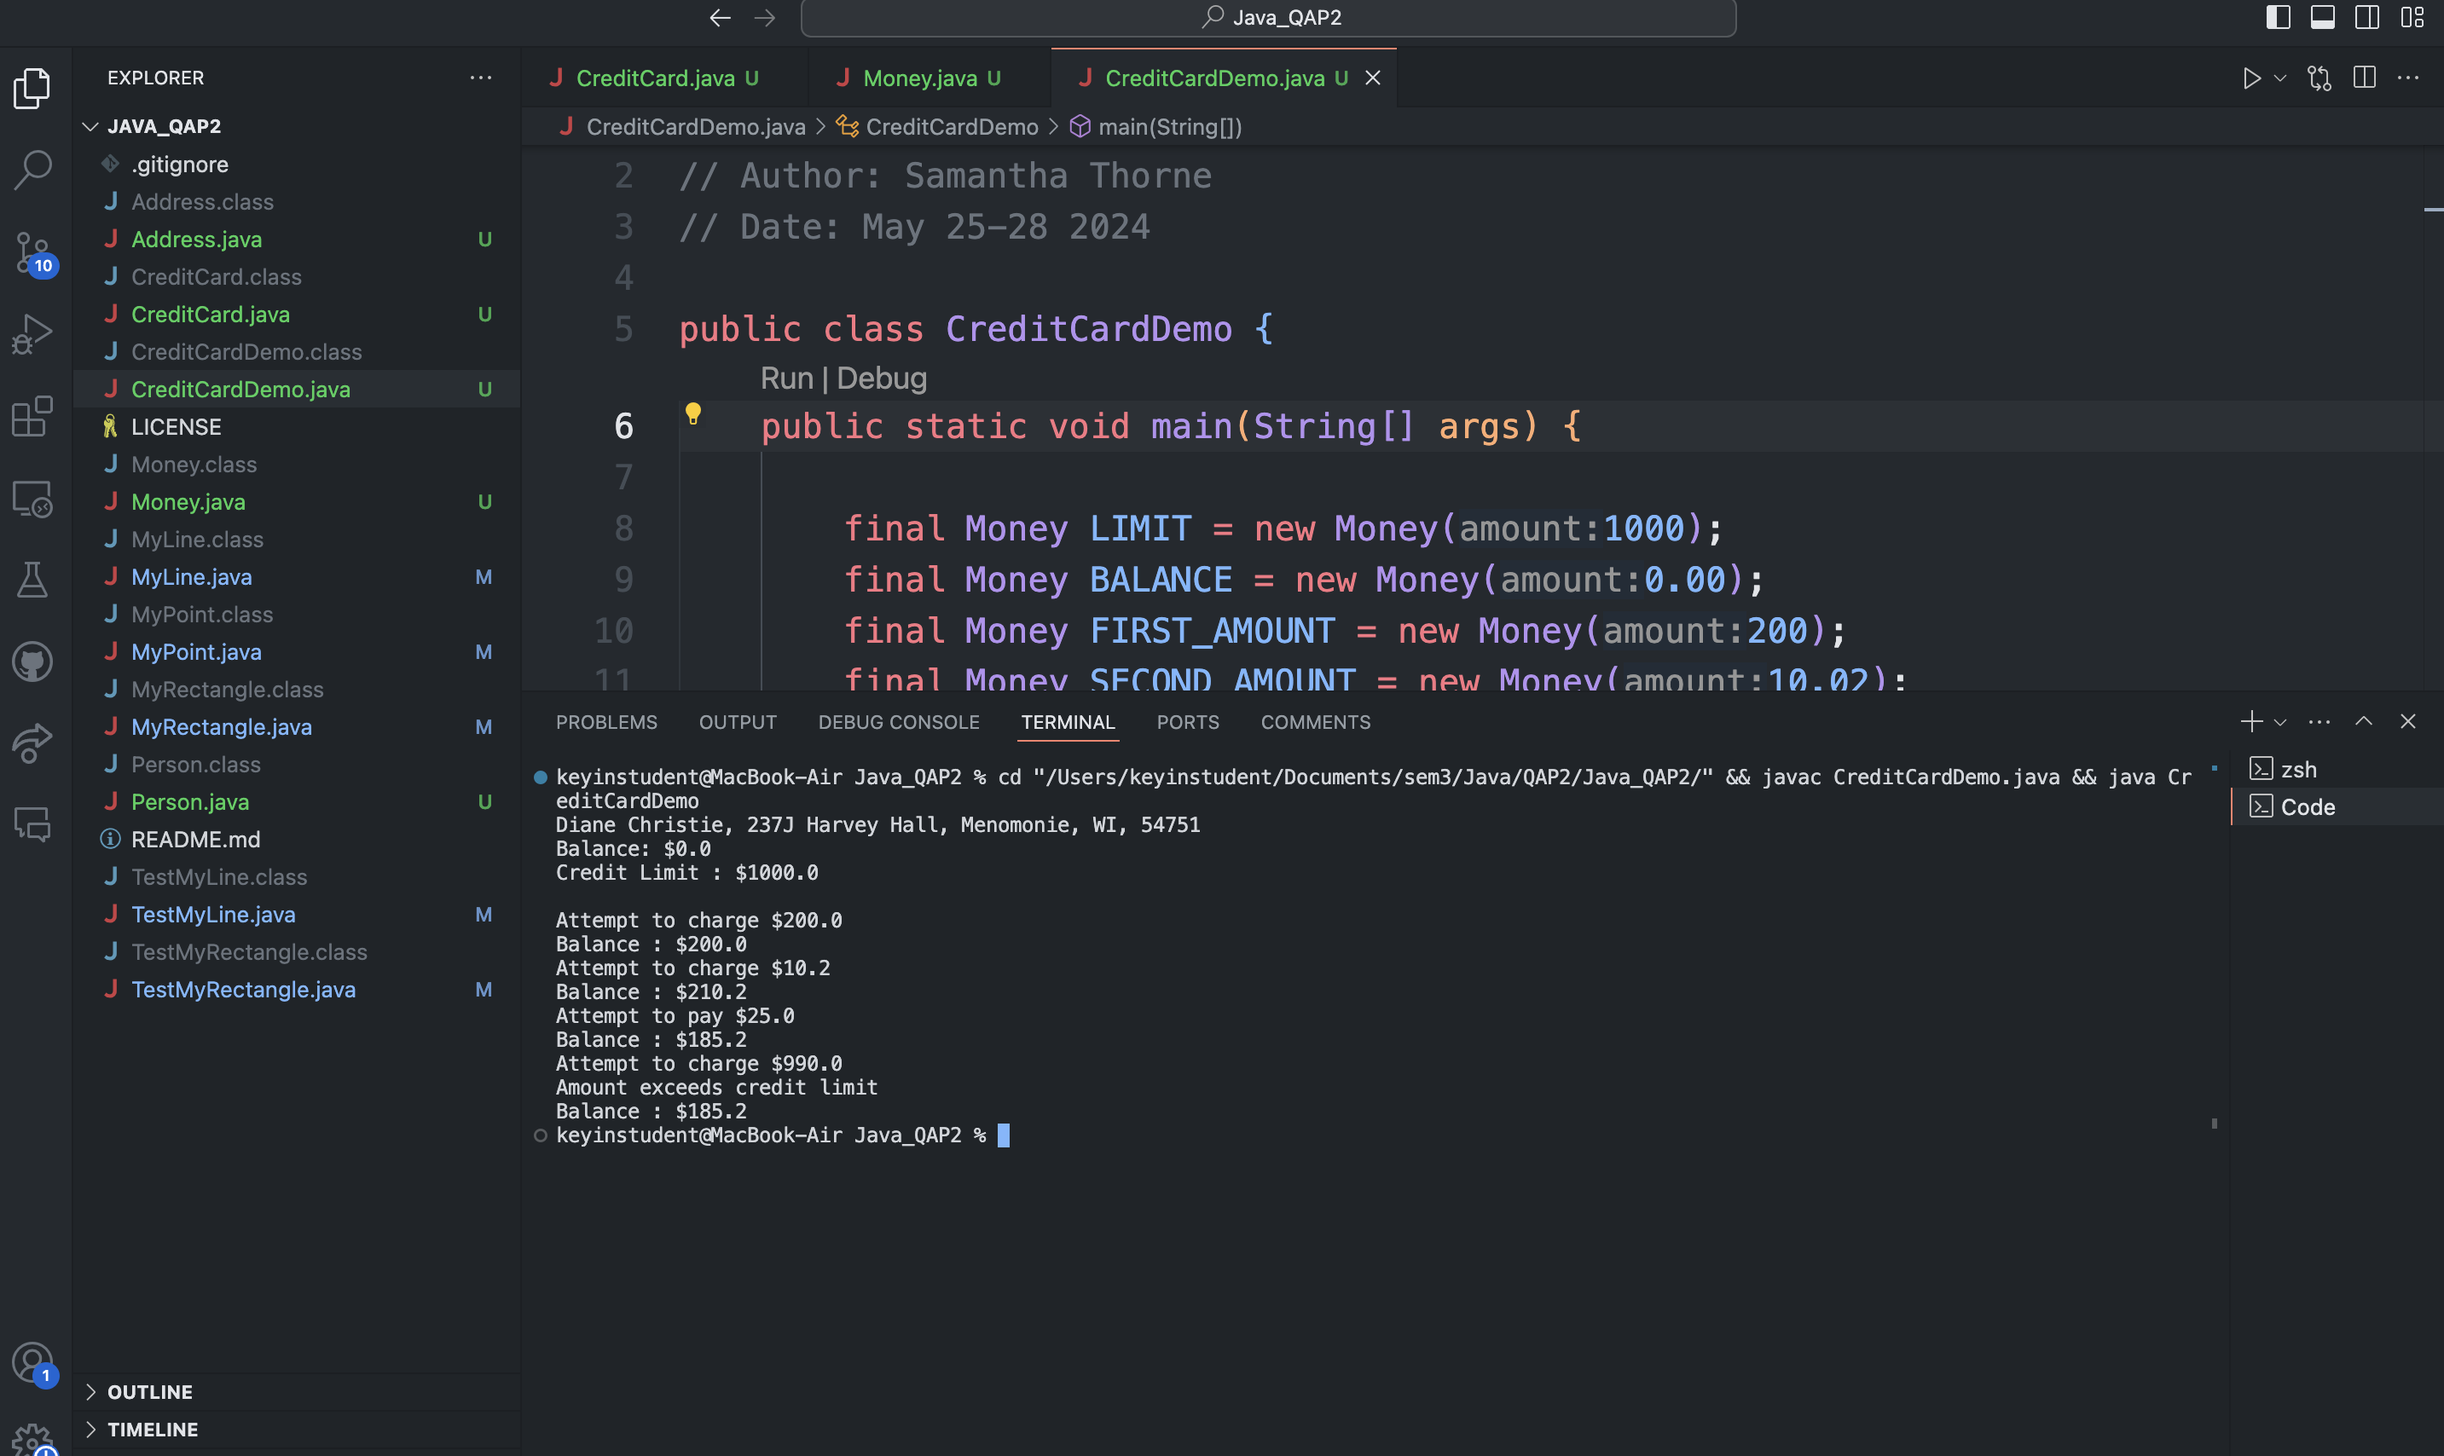
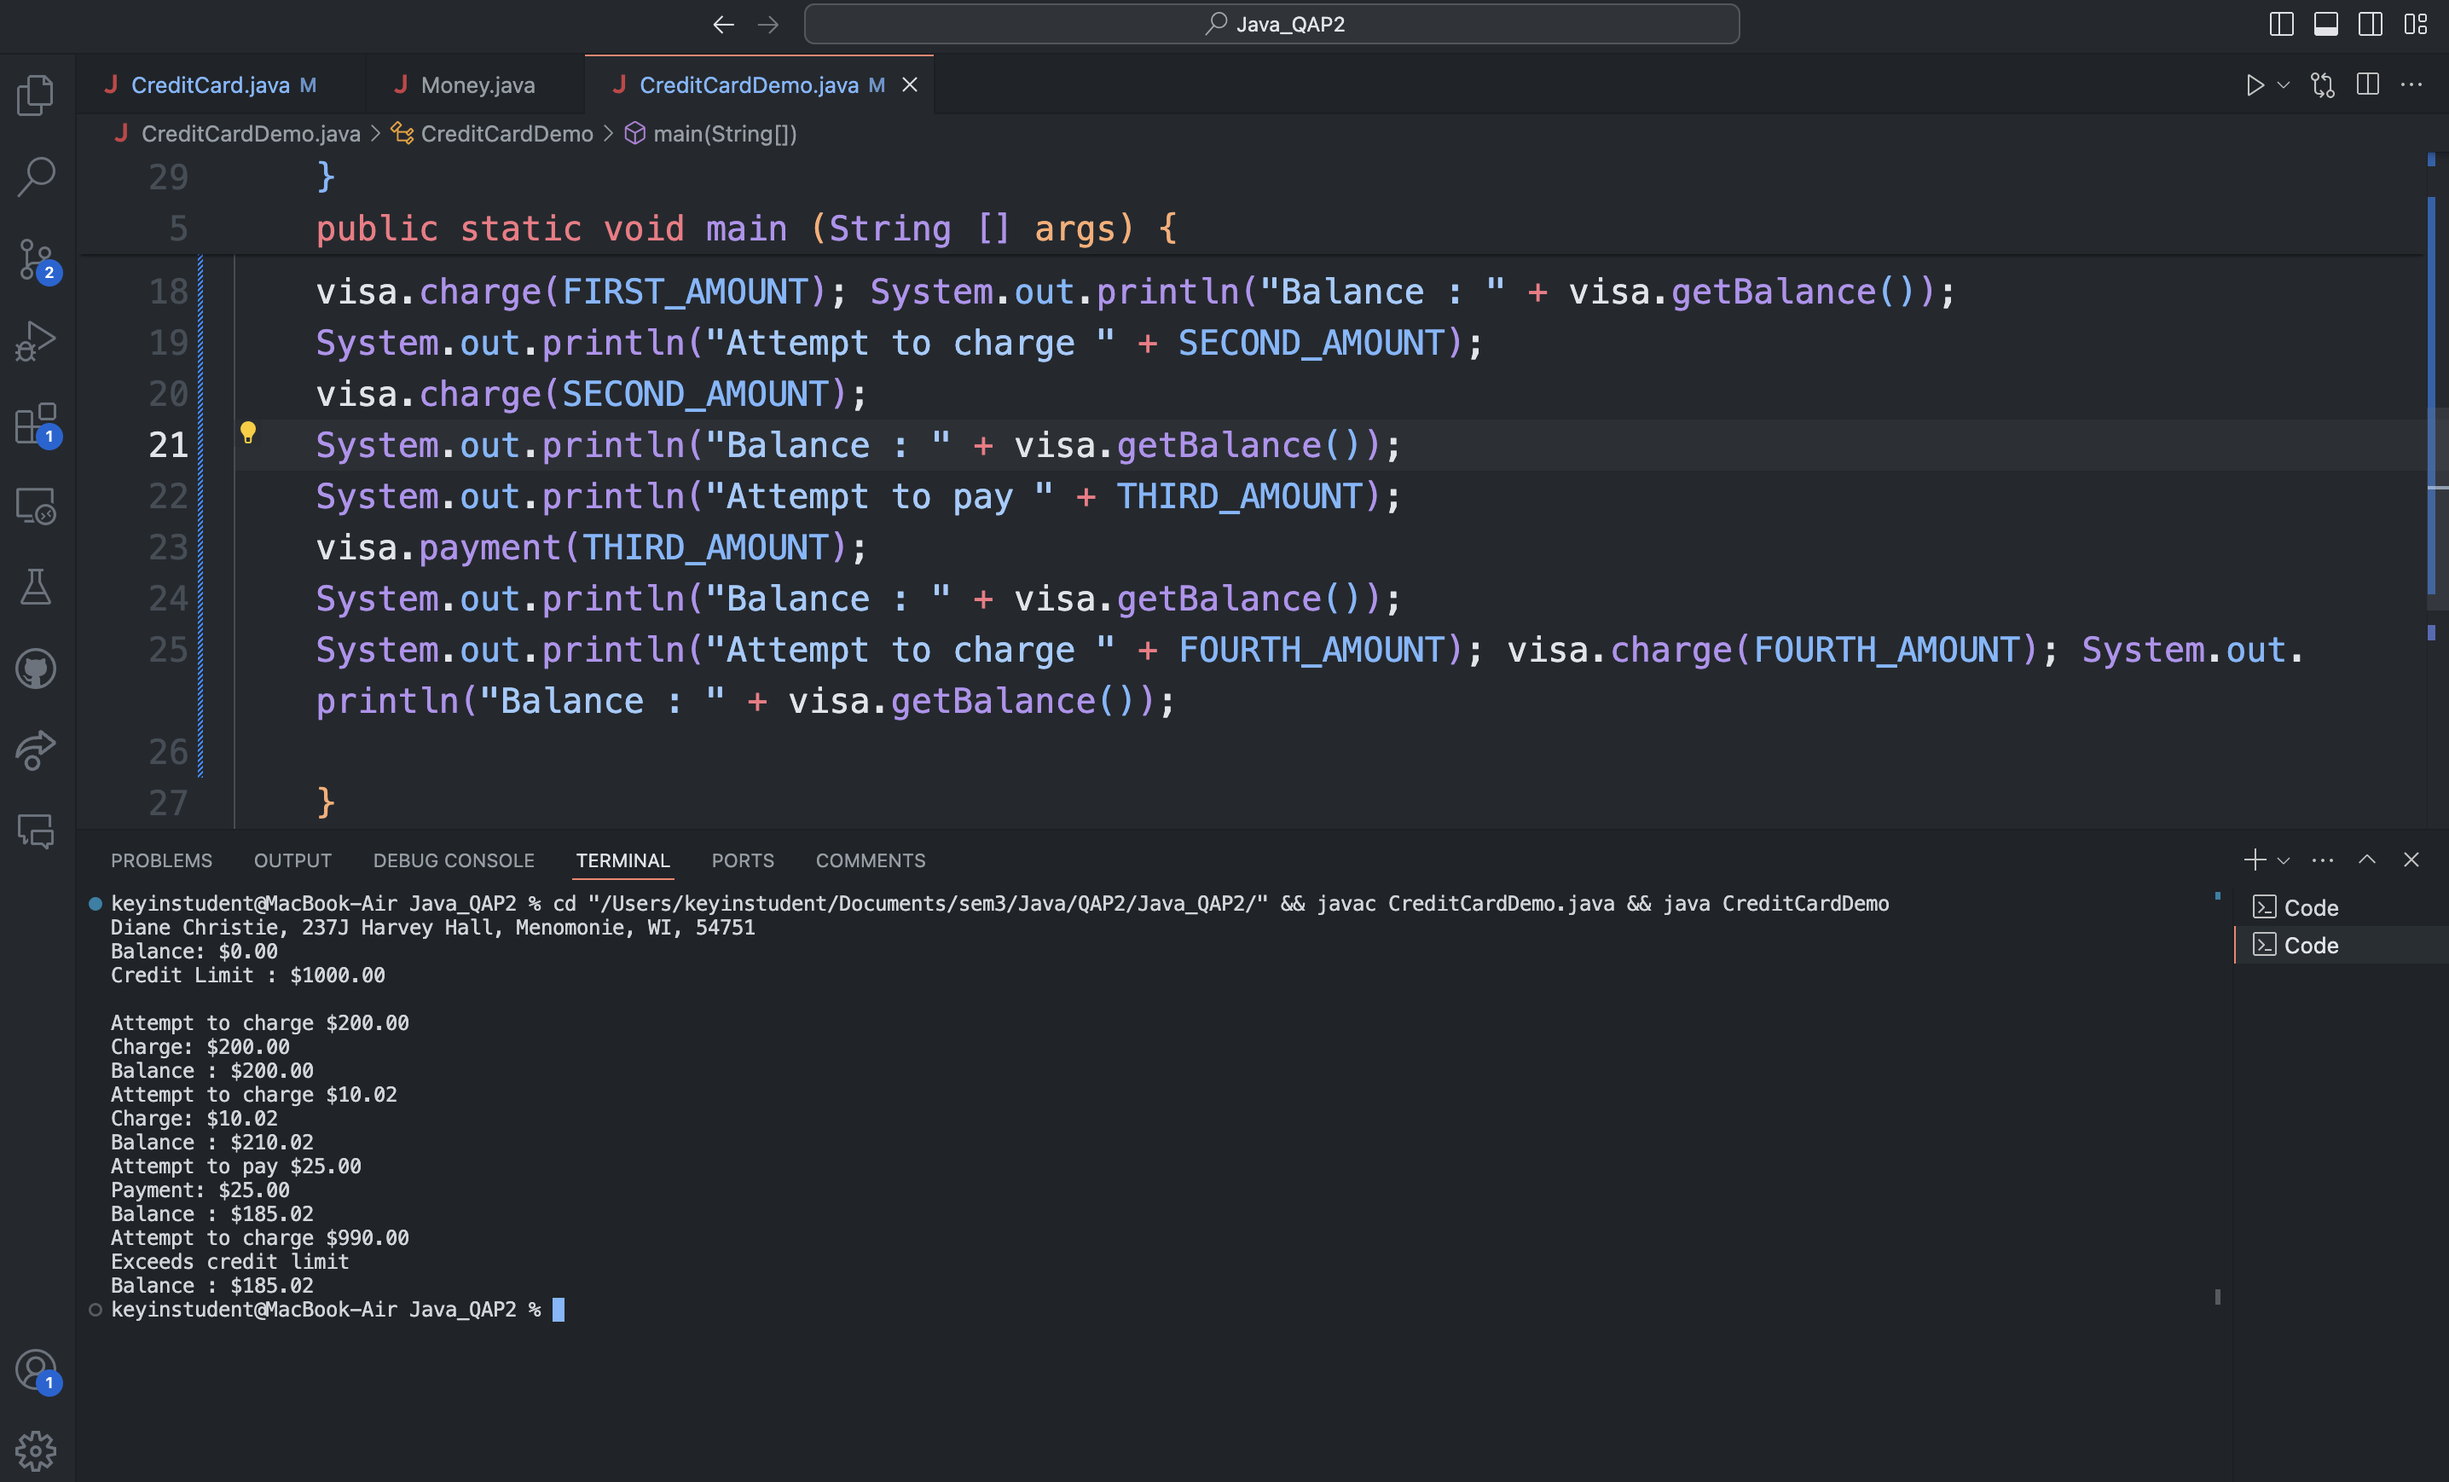
Changed some code to reflect desired output better, added a screenshot of working CreditCardDemo file

diff --git a/CreditCardDemo.java b/CreditCardDemo.java
@@ -1,37 +1,29 @@
-// Project: Java QAP2
-// Author: Samantha Thorne
-// Date: May 25-28 2024
+// Demonstrates the CreditCard class
 
 public class CreditCardDemo {
-    public static void main(String[] args) {
 
-        final Money LIMIT = new Money(1000);
-        final Money FIRST_AMOUNT = new Money(200);
-        final Money SECOND_AMOUNT = new Money(10.02);
-        final Money THIRD_AMOUNT = new Money(25);
-        final Money FOURTH_AMOUNT = new Money(990);
-        Person owner = new Person("Christie", "Diane",
-        new Address("237J Harvey Hall","Menomonie",
-        "WI" , "54751"));
-        CreditCard visa = new CreditCard(owner, LIMIT);
-        System.out.println(visa.getBalance());
-        System.out.println(visa.getPersonals());
-        System.out.println("Balance: " + visa.getBalance().toString());
-        System.out.println("Credit Limit : " + visa.getCreditLimit().toString());
-        System.out.println();
-        System.out.println("Attempt to charge " + FIRST_AMOUNT);
-
-        visa.charge(FIRST_AMOUNT);
-        System.out.println("Balance : " + visa.getBalance());
-        System.out.println("Attempt to charge " + SECOND_AMOUNT.toString());
-        visa.charge(SECOND_AMOUNT);
-        System.out.println("Balance : " + visa.getBalance().toString());
-        System.out.println("Attempt to pay " + THIRD_AMOUNT.toString());
-        visa.payment(THIRD_AMOUNT);
-        System.out.println("Balance : " + visa.getBalance().toString());
-        System.out.println("Attempt to charge " + FOURTH_AMOUNT.toString());
-        visa.charge(FOURTH_AMOUNT);
-        System.out.println("Balance : " + visa.getBalance().toString());
+    public static void main (String [] args) {
+    
+    final Money LIMIT = new Money(1000); 
+    final Money FIRST_AMOUNT = new Money(200); 
+    final Money SECOND_AMOUNT = new Money(10.02); 
+    final Money THIRD_AMOUNT = new Money(25); 
+    final Money FOURTH_AMOUNT = new Money(990); 
+    Person owner = new Person("Christie", "Diane", new Address("237J Harvey Hall","Menomonie", "WI" , "54751")); 
+    CreditCard visa = new CreditCard(owner, LIMIT); System.out.println(visa.getPersonals()); 
+    System.out.println("Balance: " + visa.getBalance()); 
+    System.out.println("Credit Limit : " + visa.getCreditLimit()); 
+    System.out.println(); System.out.println("Attempt to charge " + FIRST_AMOUNT);
+    
+    visa.charge(FIRST_AMOUNT); System.out.println("Balance : " + visa.getBalance()); 
+    System.out.println("Attempt to charge " + SECOND_AMOUNT); 
+    visa.charge(SECOND_AMOUNT); 
+    System.out.println("Balance : " + visa.getBalance()); 
+    System.out.println("Attempt to pay " + THIRD_AMOUNT); 
+    visa.payment(THIRD_AMOUNT); 
+    System.out.println("Balance : " + visa.getBalance()); 
+    System.out.println("Attempt to charge " + FOURTH_AMOUNT); visa.charge(FOURTH_AMOUNT); System.out.println("Balance : " + visa.getBalance());
+    
     }
     
-}
+    }

diff --git a/CreditCard.java b/CreditCard.java
@@ -52,16 +52,18 @@ public class CreditCard {
         double amountTotCents = (amount.dollars * 100) + amount.cents; 
         double balanceTotCents = (this.getBalance().dollars* 100) + this.getBalance().cents;
         if (balanceTotCents + amountTotCents > creditLimitTotCents) {
-            System.err.println("Amount exceeds credit limit");
+            System.err.println("Exceeds credit limit");
         } else {
         this.getBalance().add(amount);
         this.getBalance();
+        System.out.println("Charge: " + amount);
         }
     }
 
     // Make payment towards card
     public void payment(Money amount) {
         this.getBalance().subtract(amount);
+        System.out.println("Payment: " + amount);
     }
 }
 
